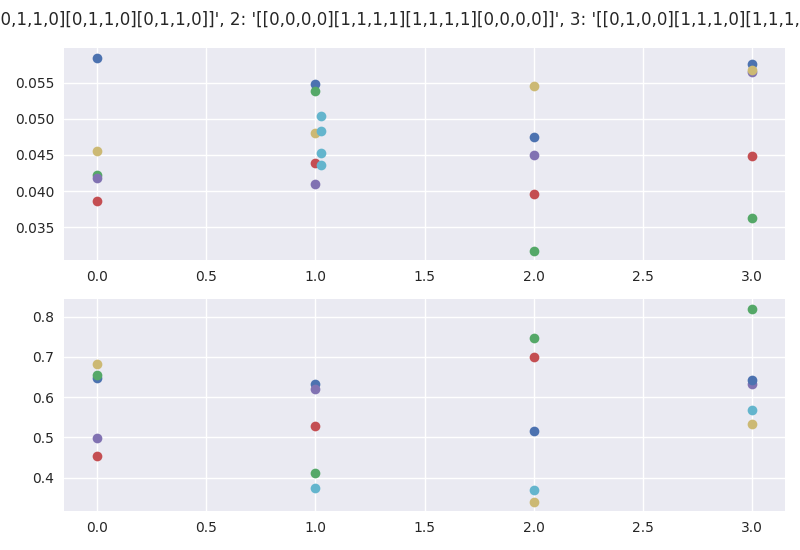
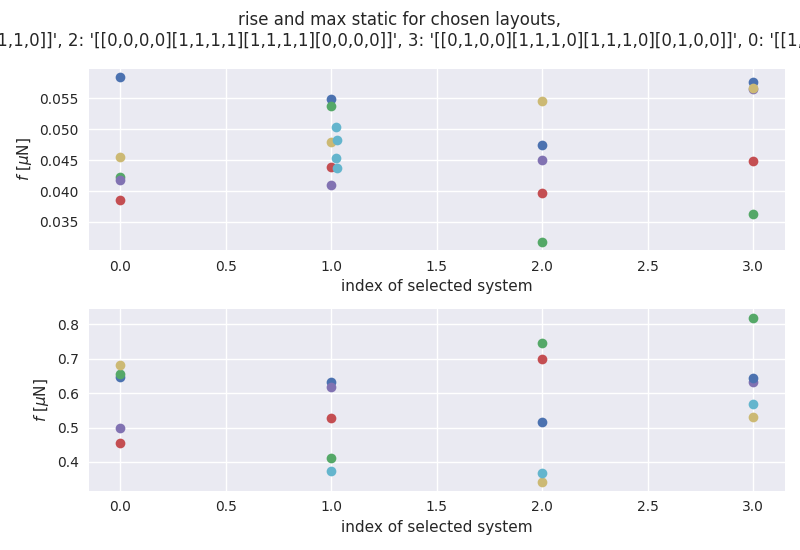
fig tweak

diff --git a/python/plot/plot_load_curves.py b/python/plot/plot_load_curves.py
@@ -476,7 +476,7 @@ def load_vs_normal_force():
             axs2[1].plot(i, rise, 'o')
         #axs2[1].plot(rise_mean[0], rise_mean[1], 'o')
         axs2[0].legend()
-        
+
         #height plot 
         
         #data = np.loadtxt(maxz_file)
@@ -505,10 +505,18 @@ def load_vs_normal_force():
     fig.tight_layout(pad=1.8)
     fig.savefig(fig_dir + 'varying_strange.png')
 
-    fig2.suptitle(f'rise and max static for chosen layouts, {man_init_strange}')
+    axs2[0].set_xlabel('index of selected system')
+    axs2[1].set_xlabel('index of selected system')
+    axs2[0].set_ylabel(r"$f$ [$\mu$N]")
+    axs2[1].set_ylabel(r"$f$ [$\mu$N]")
+    
+
+    fig2.suptitle(f'rise and max static for chosen layouts,\n {man_init_strange}')
     fig2.legend()
     fig2.tight_layout()
     fig2.savefig(fig_dir + 'varying_strange_rise_ms.png')
+
+
 
 def plot_production(temp, vel, force, uc, asperities, time, orientation, grid, erratic, production = True):
     
